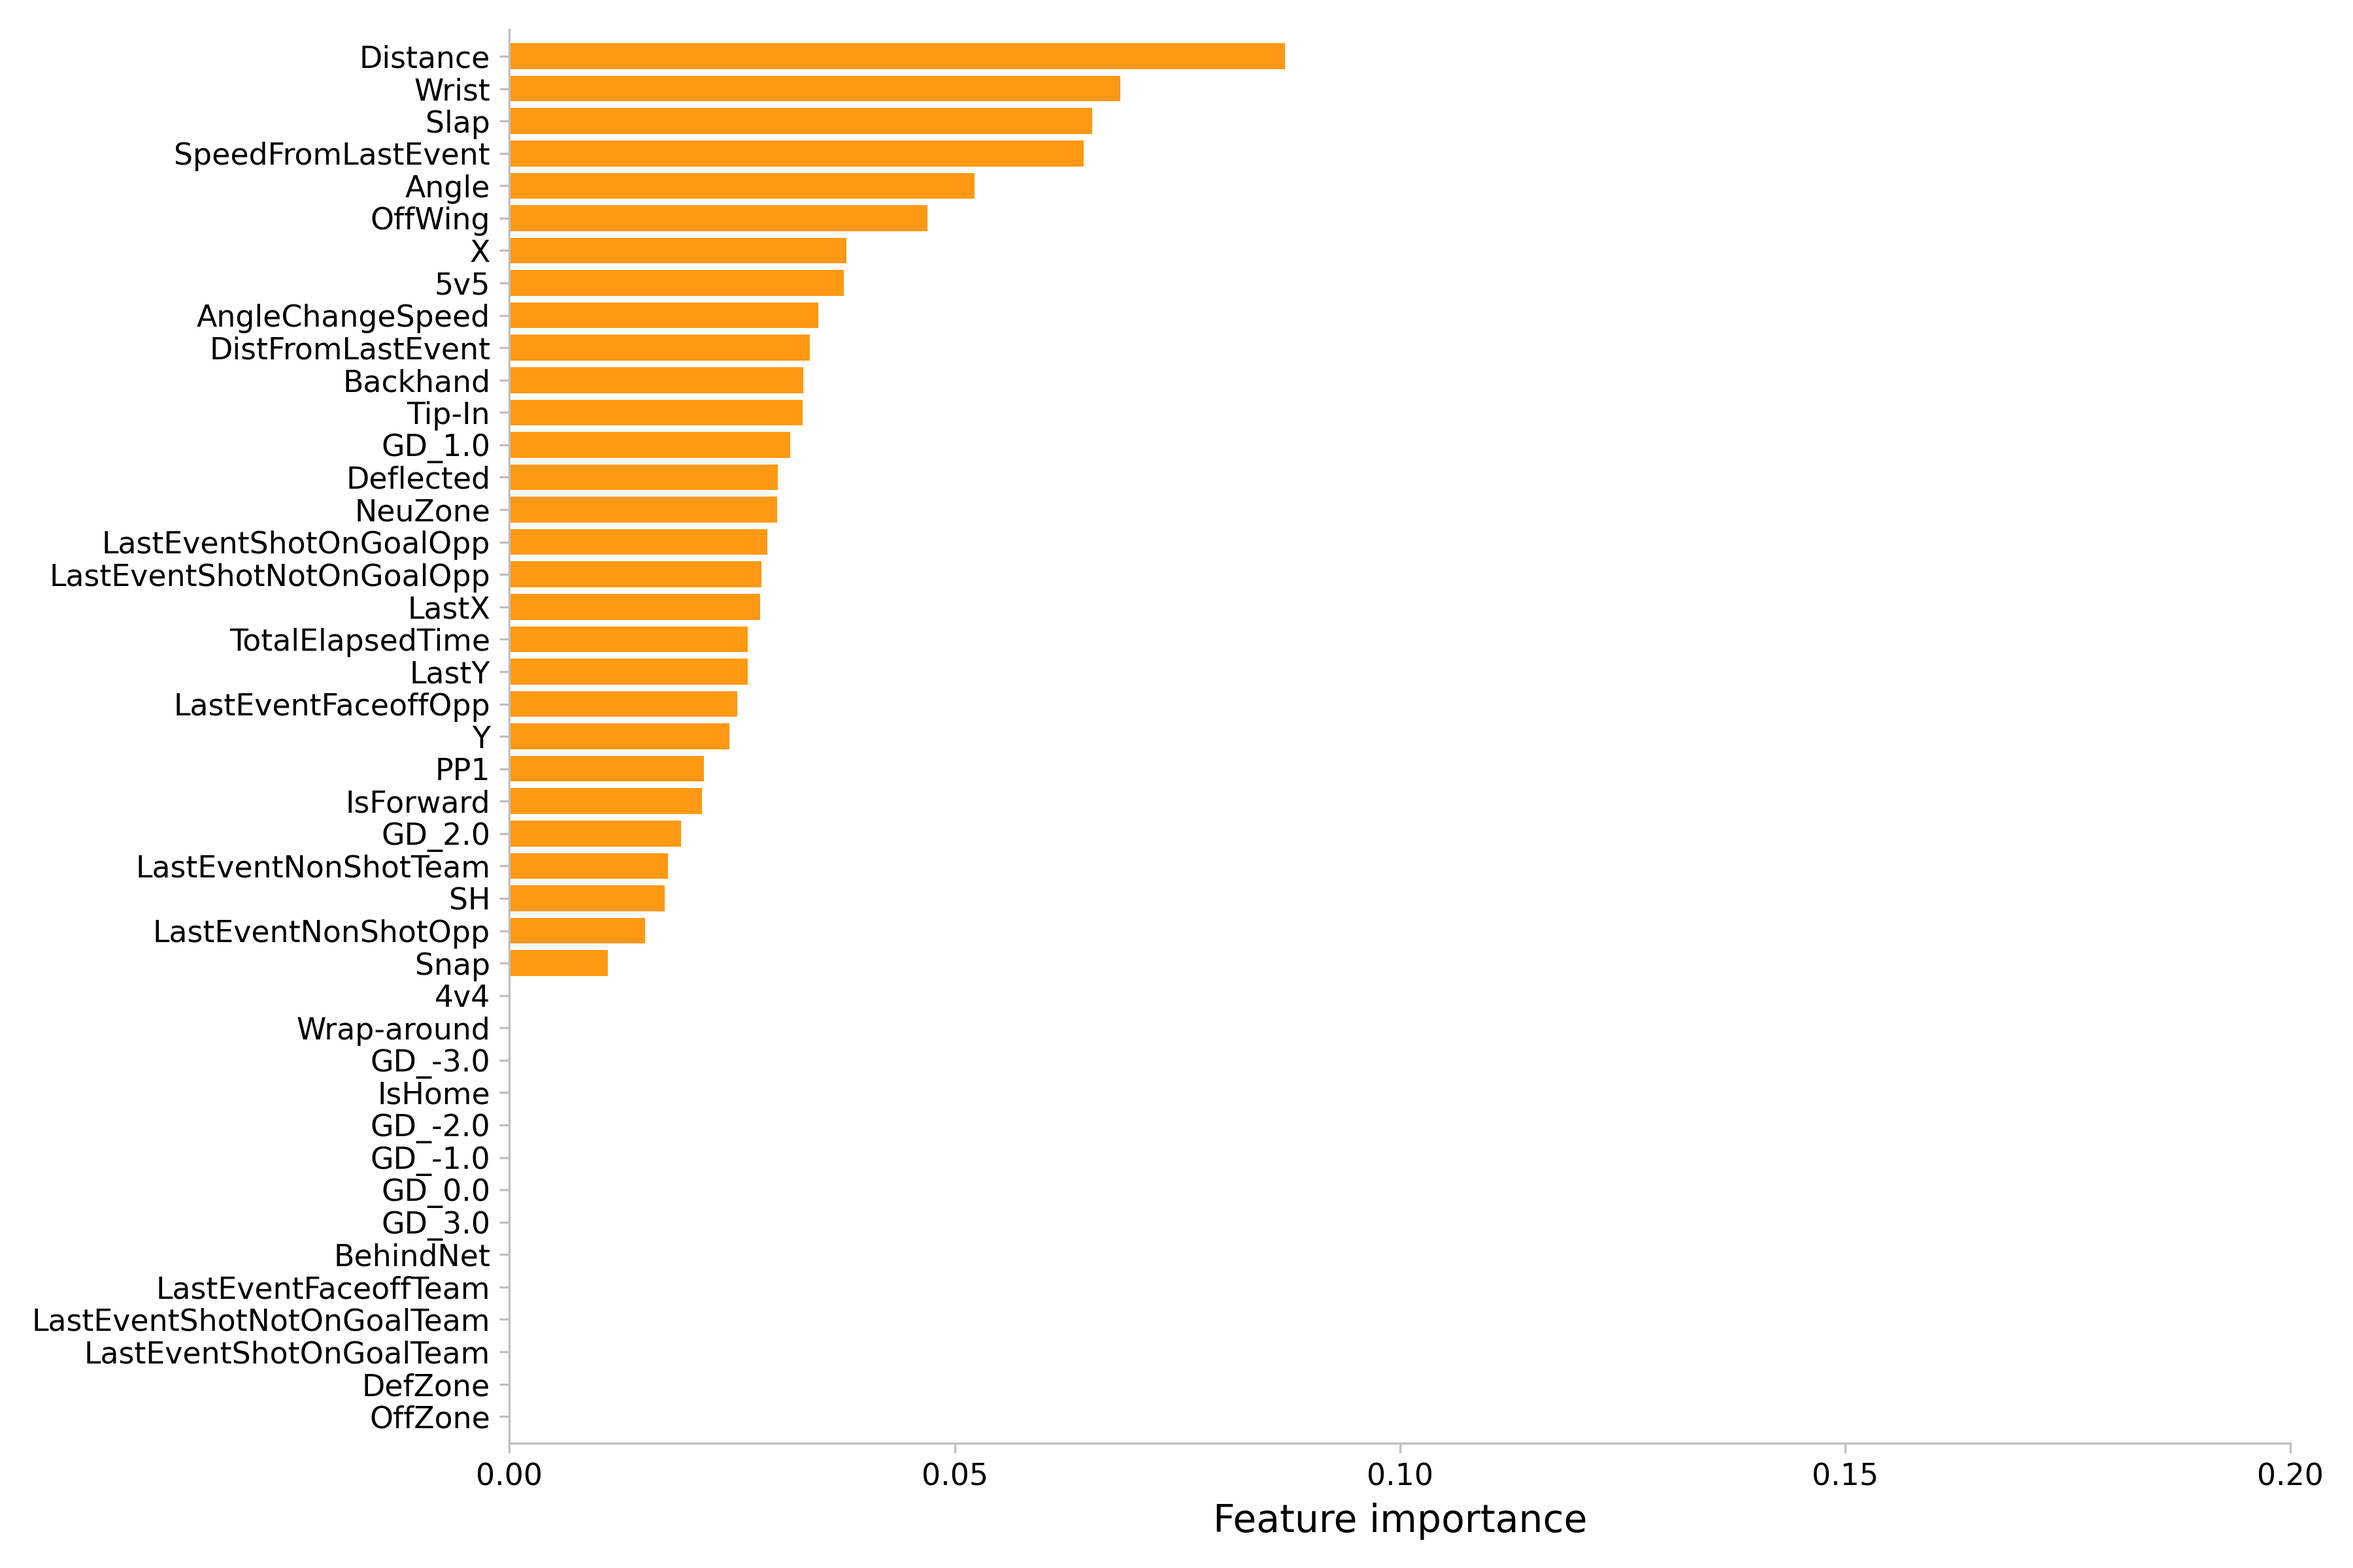
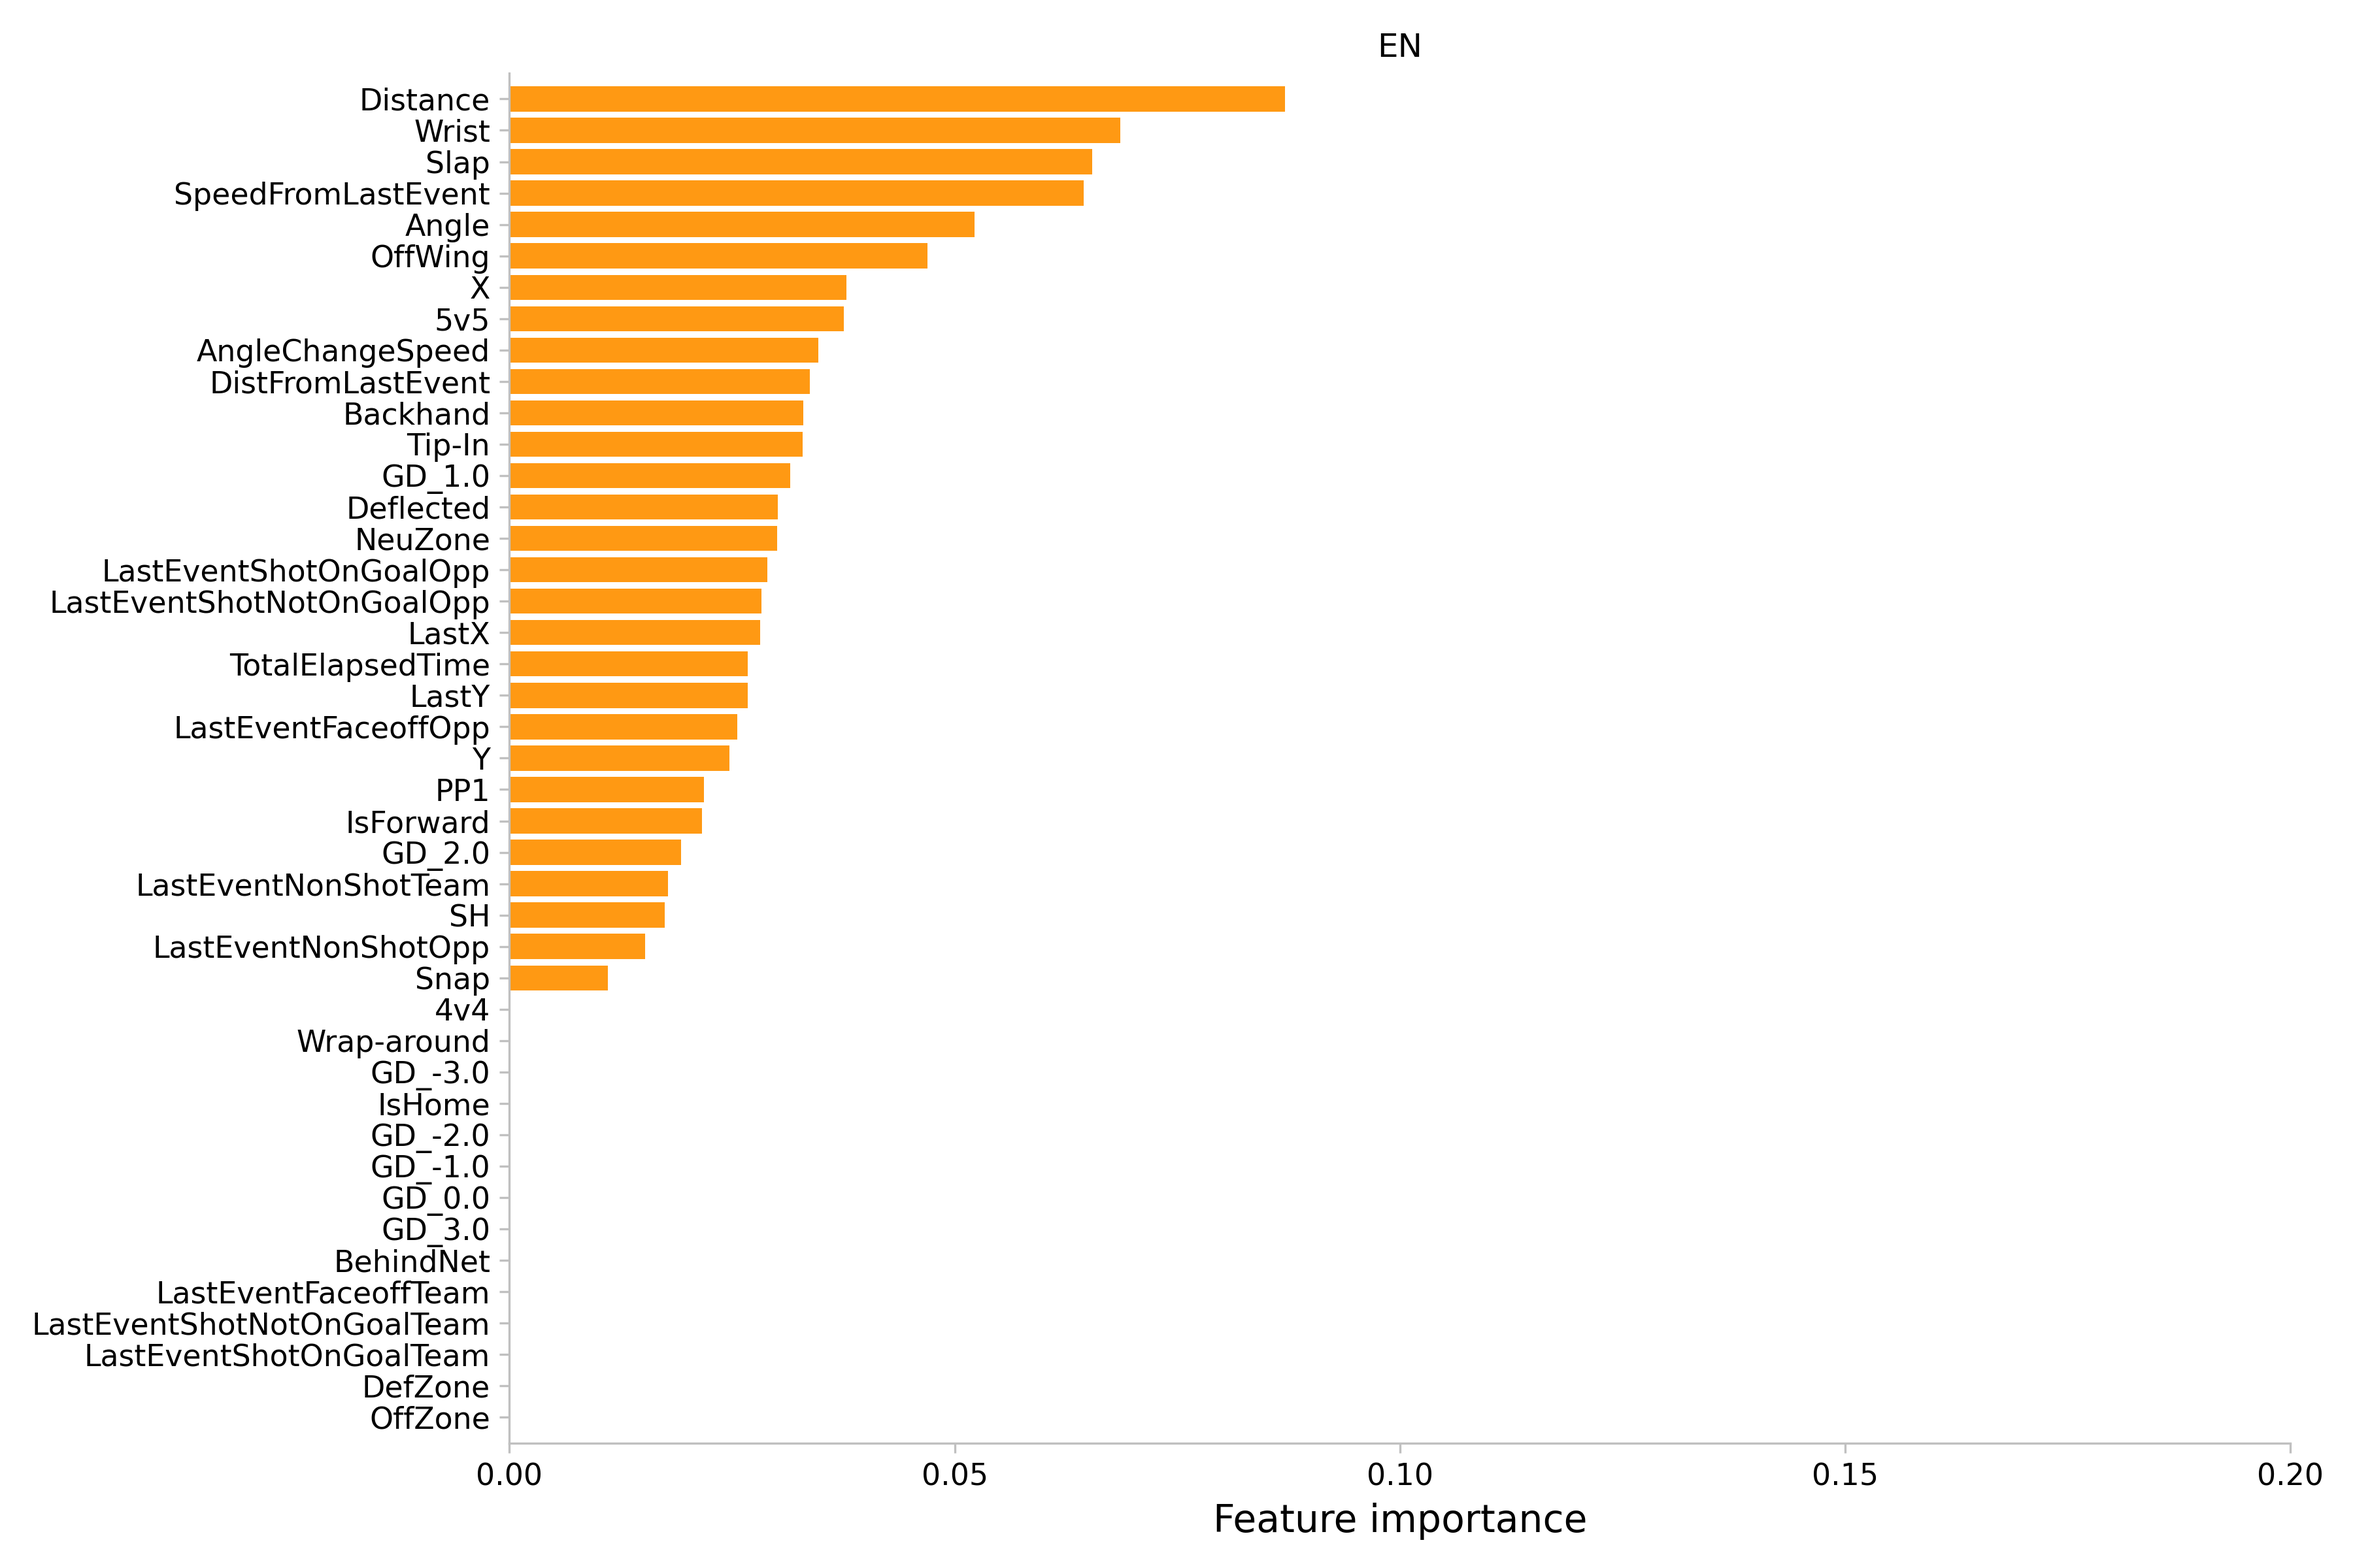
Add titles to plots and script for model evaluation

Changed region(s): [[0.0311, 0.0, 0.56, 0.9062]]

diff --git a/Scripts/evaluateModel.py b/Scripts/evaluateModel.py
@@ -1,0 +1,162 @@
+#!/usr/bin/env python3
+# -*- coding: utf-8 -*-
+# Author: Rasmus Säfvenberg
+
+import pandas as pd
+from pandera.typing import DataFrame
+import matplotlib.pyplot as plt
+import matplotlib.ticker as ticker
+
+
+def compute_xg(pbp: DataFrame, ev_xg: DataFrame, pp_xg: DataFrame, 
+               sh_xg: DataFrame, en_xg: DataFrame) -> DataFrame:
+    """
+    Compute the expected goals of all shots in different manpower situations.
+
+    Parameters
+    ----------
+    pbp : DataFrame
+        Data frame of all play by play events from all seasons.
+    ev_xg : DataFrame
+        Expected goals of all shots in even strength.
+    pp_xg : DataFrame
+        Expected goals of all shots in powerplay.
+    sh_xg : DataFrame
+        Expected goals of all shots while short-handed.
+    en_xg : DataFrame
+        Expected goals of all shots toward an empty net.
+
+    Returns
+    -------
+    xg_name : DataFrame
+        Total expected goals with player name added.
+
+    """
+    
+    # Read player data
+    players = pd.read_csv("../Data/players.csv", low_memory=False)[["id", "fullName"]]
+    
+    # Compute total goals across all situations for the season
+    goals = pd.concat([ev_xg, pp_xg, sh_xg, en_xg]).groupby("ShooterId", as_index=False)["Goal"].sum(
+        ).rename(columns={"Goal": "Goals"}).sort_values(by="Goals", ascending=False)
+    
+    # Compute total xG across all situations for the season
+    xg = pd.concat([ev_xg, pp_xg, sh_xg, en_xg]).groupby("ShooterId", as_index=False)["xG"].sum(
+        ).sort_values(by="xG", ascending=False)
+    
+    # Create a data frame of xG across each situation
+    situation = pd.concat([ev_xg.assign(Situation="EV"), pp_xg.assign(Situation="PP"), 
+                           sh_xg.assign(Situation="SH"), en_xg.assign(Situation="EN")]
+                          )
+    
+    # Compute the number of goals per situation
+    goals_per_situation = situation.groupby(["Situation", "ShooterId"], as_index=False)["Goal"].sum(
+        ).rename(columns={"Goal": "Goals"}).sort_values(by="Goals", ascending=False)
+    
+    # Compute xG per situation
+    xg_per_situation = situation.groupby(["Situation", "ShooterId"], as_index=False)["xG"].sum(
+        ).sort_values(by="xG", ascending=False)
+    
+    # Combine total and situation goals into one
+    goals_situational = goals.merge(goals_per_situation, on="ShooterId",
+                                                  suffixes=("", "_Situational")).pivot(
+        index=["ShooterId", "Goals"], columns="Situation", values="Goals_Situational").fillna(0).reset_index()
+    
+    # Combine total and situational xg into one
+    xg_situational = xg.merge(xg_per_situation, on="ShooterId",
+                                            suffixes=("", "_Situational")).pivot(
+        index=["ShooterId", "xG"], columns="Situation", values="xG_Situational").fillna(0).reset_index()
+    
+    # Combine goals and xG
+    situational = goals_situational.merge(xg_situational, on="ShooterId", 
+                                          suffixes=("_Goals", "_xG"))
+                                                
+    # Reorder columns
+    situational = situational[["ShooterId", "Goals", "xG", "EV_Goals", "EV_xG",
+                               "PP_Goals", "PP_xG", "SH_Goals", "SH_xG", "EN_Goals", "EN_xG"]]
+    
+    # Add player names
+    xg_name = players.merge(situational, left_on="id", right_on="ShooterId").drop(
+        "ShooterId", axis=1).rename(columns={"id": "PlayerId"}).sort_values("xG", ascending=False)
+    
+    # Save as csv file
+    xg_name.to_csv("../Data/xg.csv", index=False)
+    
+    # Combine all shots
+    xg_shots = pd.concat([ev_xg.assign(Situation="EV"), pp_xg.assign(Situation="PP"), 
+                          sh_xg.assign(Situation="SH"), en_xg.assign(Situation="EN")])
+    
+    # Save as csv file
+    xg_shots.to_csv("../Data/xg_shots.csv", index=False)
+    
+    # Combine xG with play by play
+    xg_pbp = pbp.loc[pbp.GameId.astype(str).str.startswith("2021")].merge(xg_shots.drop(
+        ["ScoreDifferential", "ManpowerSituation"], axis=1).rename(columns={"X": "X_adj"}), how="left")
+    
+    # Save as csv file
+    xg_pbp.to_csv("../Data/xg_pbp.csv", index=False)
+    
+    return xg_name
+
+
+def plot_feature_importance(model, shot_data: DataFrame, suffix: str, split_data):
+    """
+    Visualize feature importance for a given model.
+
+    Parameters
+    ----------
+    model : xgb.sklearn.XGBClassifier
+        The XGBoost model.
+    shot_data : DataFrame
+        Data for the model. 
+    suffix : str
+        The suffix of the figure.
+    split_data : function
+        Function as defined in xgModel.py
+
+    Returns
+    -------
+    None. Instead a plot is returned and saved to disk.
+
+    """
+    # Get training data
+    X_train, _, _, _, _, _, _ = split_data(shot_data)
+    
+    # Initialize figure
+    fig, ax = plt.subplots(figsize=(12, 8))       
+    
+    # Remove padding
+    ax.margins(y=0.01)
+    
+    # Get the importance of the features, sorted from largest to smallest
+    sorted_idx = model.feature_importances_.argsort()
+    
+    # Plot the feature importance
+    ax.barh(X_train.columns[sorted_idx], model.feature_importances_[sorted_idx], 
+            color="#FF9913")
+          
+    # Change plot spines
+    ax.spines["right"].set_visible(False)
+    ax.spines["top"].set_visible(False)
+    ax.spines["left"].set_color("#C0C0C0")
+    ax.spines["bottom"].set_color("#C0C0C0")
+    
+    # Change ticks
+    ax.tick_params(axis="both", labelsize=11, color="#C0C0C0")
+    
+    # Specify axis labels
+    ax.set_xlabel("Feature importance", fontsize=14)
+    ax.set_ylabel("", fontsize=14)
+    
+    # Change axis limits    
+    ax.set_xlim(0, 0.2)
+    
+    # Specify axis tick spacing
+    ax.xaxis.set_major_locator(ticker.MultipleLocator(0.05))
+    
+    # Add title
+    ax.set_title(suffix)
+    
+    # Save plot
+    plt.tight_layout()
+    plt.savefig(f"../Figures/feature_importance_{suffix}.png", dpi=300)
